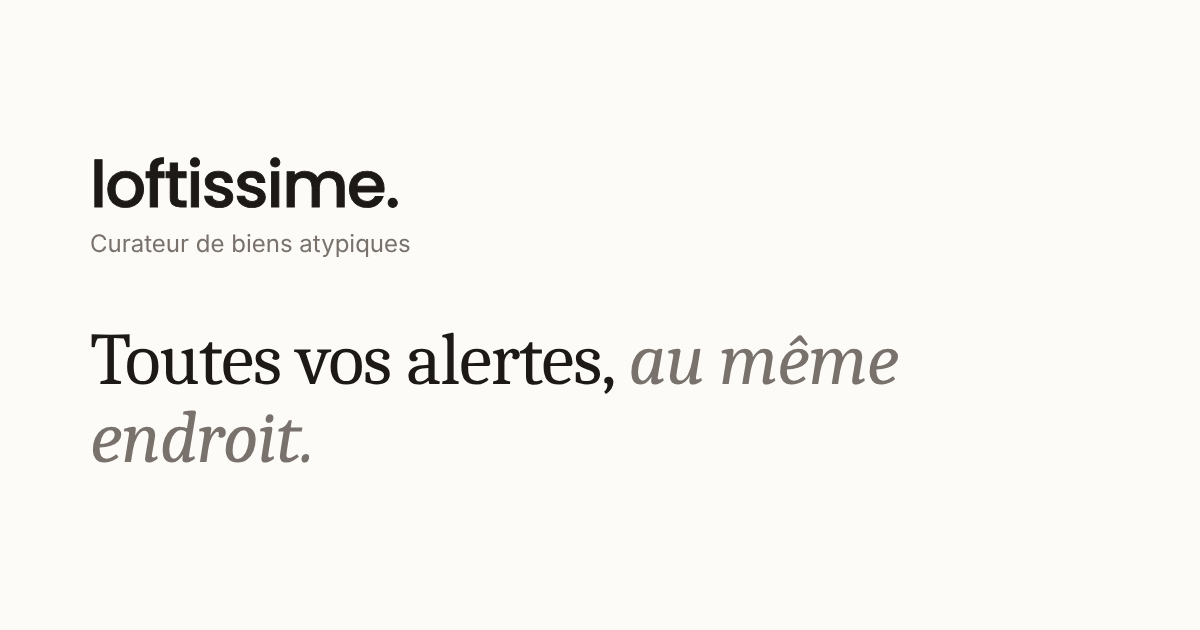
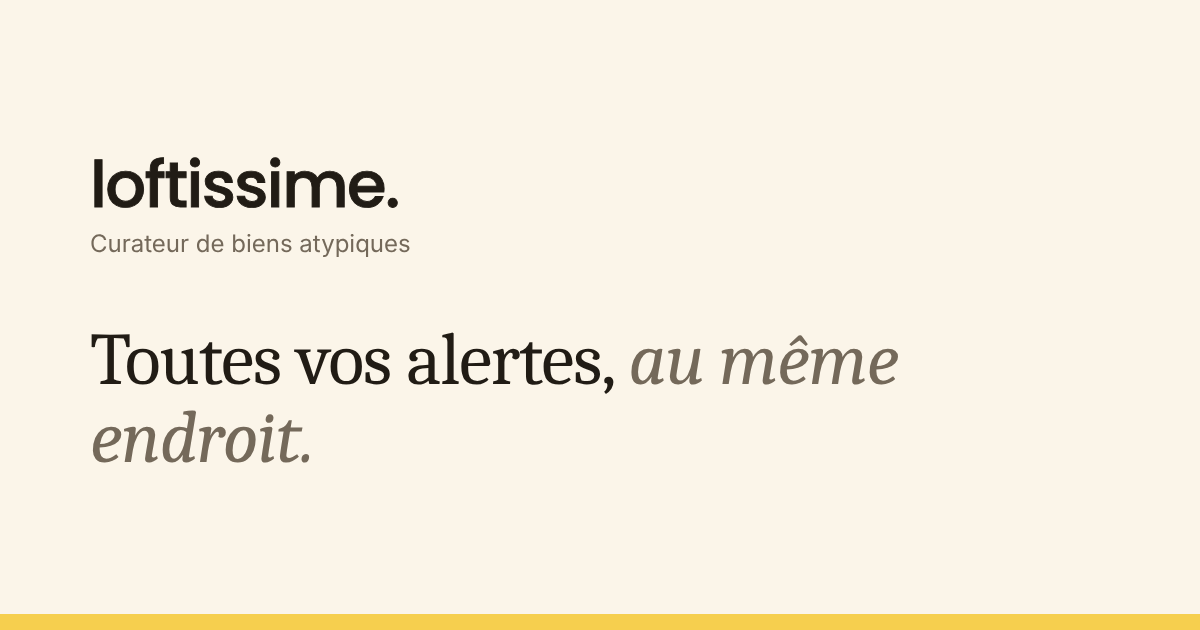
Favoris : un seul e-mail récapitulatif ; images de partage et icône aux nouvelles couleurs ; formulaire pro en champs encadrés
Claude-Session: https://claude.ai/code/session_015aKJiDLUy7h6cRtFn1LWuo

Changed region(s): [[0.0, 0.9651, 1.0, 1.0]]

diff --git a/frontend/app/FavoritesContact.tsx b/frontend/app/FavoritesContact.tsx
@@ -78,23 +78,22 @@ export default function FavoritesContact({
     ]
       .filter(Boolean)
       .join(' ');
-    let ok = 0;
-    const done: string[] = [];
-    for (const id of selected) {
-      try {
-        const { data, error } = await getSupabase().rpc('submit_lead', {
-          p_listing: id,
-          p_name: name,
-          p_email: email,
-          p_phone: tel || null,
-          p_message: message,
-          p_consent: true, // l'envoi de la demande vaut accord, la phrase sous le bouton le précise
-        });
-        if (!error && data === true) { ok += 1; done.push(id); }
-      } catch {
-        /* on continue avec les biens suivants */
-      }
+    // Un seul appel : chaque agence reçoit sa demande, l'acheteur un seul e-mail récapitulatif
+    let done: string[] = [];
+    try {
+      const { data, error } = await getSupabase().rpc('submit_leads', {
+        p_listings: selected,
+        p_name: name,
+        p_email: email,
+        p_phone: tel || null,
+        p_message: message,
+        p_consent: true, // l'envoi de la demande vaut accord, la phrase sous le bouton le précise
+      });
+      if (!error && Array.isArray(data)) done = data.filter((x) => typeof x === 'string');
+    } catch {
+      /* rien n'est parti : le message d'erreur s'affiche */
     }
+    const ok = done.length;
     setSent(ok);
     if (done.length > 0) { markContacted(done); onSent?.(); }
     if (ok > 0) saveVisitor({ name, email, phone: tel });

diff --git a/frontend/app/pro/ProForm.tsx b/frontend/app/pro/ProForm.tsx
@@ -43,7 +43,7 @@ export default function ProForm() {
     );
   }
 
-  const field = 'placeholder:text-stone-300 mt-1 w-full border-0 border-b border-stone-300 bg-transparent px-0 pb-2 pt-1 font-sans text-lg text-stone-900 rounded-none focus:outline-none focus:border-stone-900 focus:ring-0';
+  const field = 'mt-1 w-full rounded-[10px] border border-stone-300 bg-white px-3 py-3 font-sans text-base text-stone-900 placeholder:text-stone-400 focus:outline-none focus:border-stone-900 focus:ring-0';
   const label = 'block text-xs uppercase tracking-wider text-stone-500 mb-1';
 
   return (
@@ -52,7 +52,7 @@ export default function ProForm() {
       Diffusez vos biens atypiques. <span className="italic text-stone-500">Dès maintenant.</span>
     </h2>
     <p className="mt-4 text-lg font-light text-stone-600">Laissez-nous vos coordonnées : nous vous recontactons rapidement pour mettre vos annonces en ligne.</p>
-    <form onSubmit={onSubmit} className="mt-8 max-w-2xl rounded-[14px] border border-stone-200 bg-white p-6 md:p-8 space-y-6 text-left">
+    <form onSubmit={onSubmit} className="mt-8 max-w-2xl rounded-[14px] border border-stone-200 bg-white p-6 md:p-8 space-y-4 text-left">
       <div>
         <label htmlFor="p-agency" className={label}>Agence *</label>
         <input id="p-agency" className={field} required minLength={2} maxLength={160} value={agency} onChange={(e) => setAgency(e.target.value)} />
